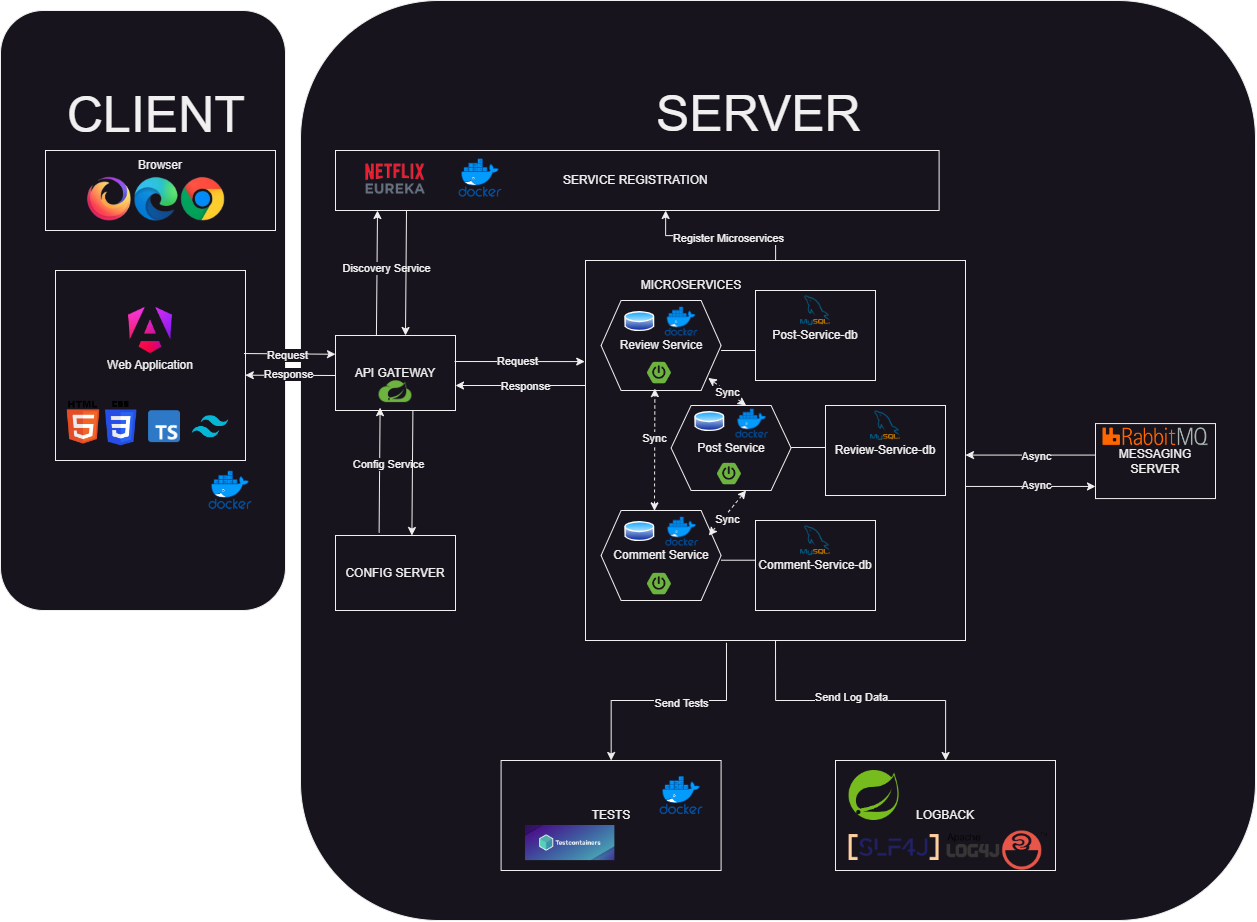
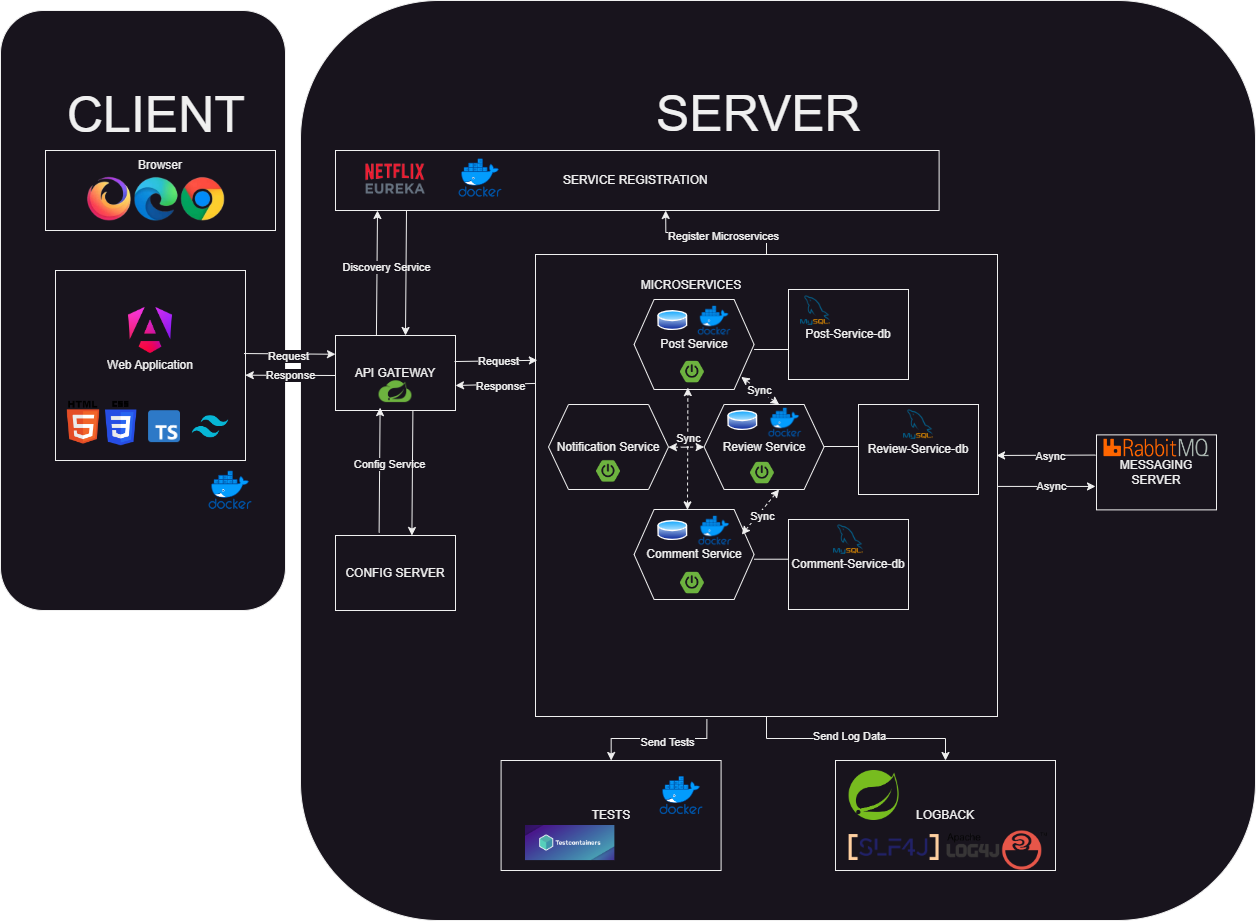
Refactor: Enhance architecture documentation for Messaging Service and OpenFeign integration

diff --git a/architecture/architecture.md b/architecture/architecture.md
@@ -32,27 +32,66 @@ De Gateway dient als het centrale toegangspunt voor alle client-aanvragen. In pl
 
 ---
 
-## 4. Messaging Service (RabbitMQ)
-De Messaging Service maakt gebruik van RabbitMQ om asynchrone berichten te verzenden tussen microservices. Dit betekent dat een service berichten kan versturen die door een andere service worden opgepakt, zonder dat beide services op hetzelfde moment actief hoeven te zijn. Dit is handig voor het afhandelen van gebeurtenissen of meldingen, zoals goedkeuringen, afwijzingen of gebruikersmeldingen.
+## 4. Messaging Service (RabbitMQ)  
+De Messaging Service maakt gebruik van RabbitMQ om asynchrone berichten te verzenden tussen microservices. Dit betekent dat een service berichten kan versturen die door een andere service worden opgepakt, zonder dat beide services op hetzelfde moment actief hoeven te zijn. Dit is handig voor het afhandelen van gebeurtenissen of meldingen, zoals goedkeuringen, afwijzingen of gebruikersmeldingen.  
 
-### Functies:
-- **Berichten verzenden**: Een service (bijvoorbeeld de Review Service) stuurt een bericht naar een wachtrij wanneer een artikel is goedgekeurd of afgewezen.
-- **Berichten ontvangen**: Een andere service (bijvoorbeeld de Post Service of Comment Service) luistert naar berichten en handelt ze af wanneer ze binnenkomen.
+### Functies:  
+- **Berichten verzenden (Producer)**:  
+  Een service, zoals de **ReviewService**, fungeert als producer door berichten naar RabbitMQ te sturen. Bijvoorbeeld:  
+  - Wanneer een artikel wordt goedgekeurd of afgewezen, stuurt de ReviewService een bericht met de status van het artikel naar een specifieke wachtrij in RabbitMQ.  
+  - Dit bericht bevat gegevens zoals de ID van de post, de status (bijv. "goedgekeurd" of "afgewezen") en eventuele opmerkingen.  
+
+- **Berichten ontvangen (Consumer)**:  
+  Een andere service, zoals de **PostService**, fungeert als consumer door te luisteren naar berichten in de wachtrij. Bijvoorbeeld:  
+  - De PostService ontvangt berichten over wijzigingen in de status van artikelen.  
+  - Bij ontvangst van een bericht werkt de PostService de status van het artikel bij in de database.  
+  - De consumer haalt het bericht uit de wachtrij, verwerkt het, en bevestigt vervolgens de succesvolle afhandeling aan RabbitMQ.  
+
+### Voordelen van deze aanpak:  
+- **Decoupling**: De producer (ReviewService) en de consumer (PostService) zijn niet direct afhankelijk van elkaar. Dit maakt het systeem robuuster en schaalbaarder.  
+- **Betrouwbaarheid**: RabbitMQ zorgt ervoor dat berichten niet verloren gaan, zelfs als een service tijdelijk niet beschikbaar is.  
+- **Asynchrone verwerking**: Services kunnen onafhankelijk en op verschillende tijdstippen werken, wat leidt tot betere prestaties en schaalbaarheid.  
 
 ---
 
-## Microservices en Communicatie met User Stories
+## 5. OpenFeign
+**OpenFeign** is een hulpmiddel dat helpt om eenvoudig te communiceren tussen verschillende microservices. Het maakt het gemakkelijker om HTTP-verzoeken te sturen zonder veel ingewikkelde code te schrijven.
 
-### PostService en ReviewService (Synchrone Communicatie via OpenFeign)
-- **US1 - US3 (PostService)**: Een redacteur kan artikelen aanmaken, opslaan als concept en bewerken. Wanneer een artikel klaar is, kan het via een directe aanroep naar de **ReviewService** ter goedkeuring worden aangeboden.
-- **US7 (ReviewService)**: De hoofdredacteur kan ingediende artikelen goedkeuren of afwijzen en stuurt via een synchrone call een statusupdate naar de **PostService**. Dit zorgt ervoor dat de status van het artikel meteen wordt bijgewerkt.
+### Functies:
+- **Eenvoudige API-aanroepen**: Je hoeft geen gedetailleerde HTTP-code te schrijven, alleen de interface.
+ - **Ondersteunt HTTP-methoden**: Werkt met GET, POST, PUT, DELETE, enz.
 
-### CommentService (Synchrone Communicatie via OpenFeign)
-- **US10 - US12**: Een medewerker kan reacties plaatsen, lezen, bewerken of verwijderen bij artikelen. Dit vereist een directe call naar de **PostService** om te controleren of het artikel bestaat en om de reacties te beheren.
+---
 
-### Messaging Service (Asynchrone Communicatie via RabbitMQ)
-- **US8 - US9 (ReviewService)**: Wanneer een artikel wordt goedgekeurd of afgewezen, stuurt de **ReviewService** een asynchrone melding via RabbitMQ naar redacteuren. Eventuele opmerkingen bij afwijzingen worden ook asynchroon verwerkt, zodat redacteuren op de hoogte worden gesteld zonder vertragingen.
-- **US10 - US12 (CommentService)**: Naast het plaatsen van reacties kan de **CommentService** meldingen asynchroon verzenden naar andere gebruikers wanneer er nieuwe reacties zijn of als reacties worden bewerkt/verwijderd. Dit zorgt ervoor dat gebruikers meldingen ontvangen zonder directe interactie.
+# Microservices en Communicatie met User Stories  
+
+## PostService  
+- **US1 - US3 (PostService)**:  
+  Als redacteur wil ik posts kunnen aanmaken, opslaan als concept en bewerken, zodat ik nieuws en updates kan delen, later kan bijwerken of fouten kan corrigeren.  
+- **US4 - US5 (PostService)**:  
+  Als gebruiker wil ik een overzicht van gepubliceerde posts kunnen zien en deze kunnen filteren op inhoud, auteur en datum, zodat ik eenvoudig op de hoogte blijf van het laatste nieuws.  
+
+## PostService, ReviewService en CommentService (Synchrone Communicatie via OpenFeign)  
+- **(PostService - ReviewService - CommentService)**:  
+  Als redacteur wil ik dat het verwijderen van een post automatisch alle gekoppelde reacties en reviews verwijdert.  
+
+## ReviewService  
+- **US6 - US8 (ReviewService - PostService - NotificationService)**:  
+  Als redacteur wil ik ingediende posts kunnen bekijken, goedkeuren of afwijzen met opmerkingen, en meldingen ontvangen, zodat alleen goedgekeurde content wordt gepubliceerd en afwijzingen duidelijk zijn.  
+
+## ReviewService en NotificationService (Synchrone Communicatie via OpenFeign)  
+- **US7 (ReviewService - NotificationService)**:  
+  Als redacteur wil ik een melding ontvangen wanneer een post goedgekeurd of afgewezen is, zodat ik weet of het gepubliceerd kan worden of moet worden herzien.  
+  - Zodra een redacteur een post goedkeurt of afwijst, stuurt de **NotificationService** een melding via een gekoppelde mailservice. Zo ontvangt de redacteur een e-mailnotificatie over de status van de post.  
+
+## ReviewService en PostService (Asynchrone Communicatie via RabbitMQ)  
+- **US7 (ReviewService - PostService)**:  
+  Als redacteur wil ik een melding ontvangen wanneer een post goedgekeurd of afgewezen is, zodat ik weet of het gepubliceerd kan worden of moet worden herzien.  
+  - Wanneer een artikel wordt gepubliceerd of herzien, stuurt de **ReviewService** een asynchrone boodschap via RabbitMQ naar de **PostService**, die de status van de post bijwerkt met behulp van een producer en een consumer.  
+
+## CommentService  
+- **US9 - US11 (CommentService)**:  
+  Als gebruiker wil ik reacties kunnen plaatsen, lezen, bewerken of verwijderen op posts, zodat ik mijn mening kan delen, vragen kan stellen, inzicht krijg in reacties van collega’s en mijn eigen bijdragen kan corrigeren of verwijderen.  
 
 <!-- :heavy_check_mark:_(COMMENT) Add a description of the architecture of your application and create a diagram like the one below. Link to the diagram in this document._
 
